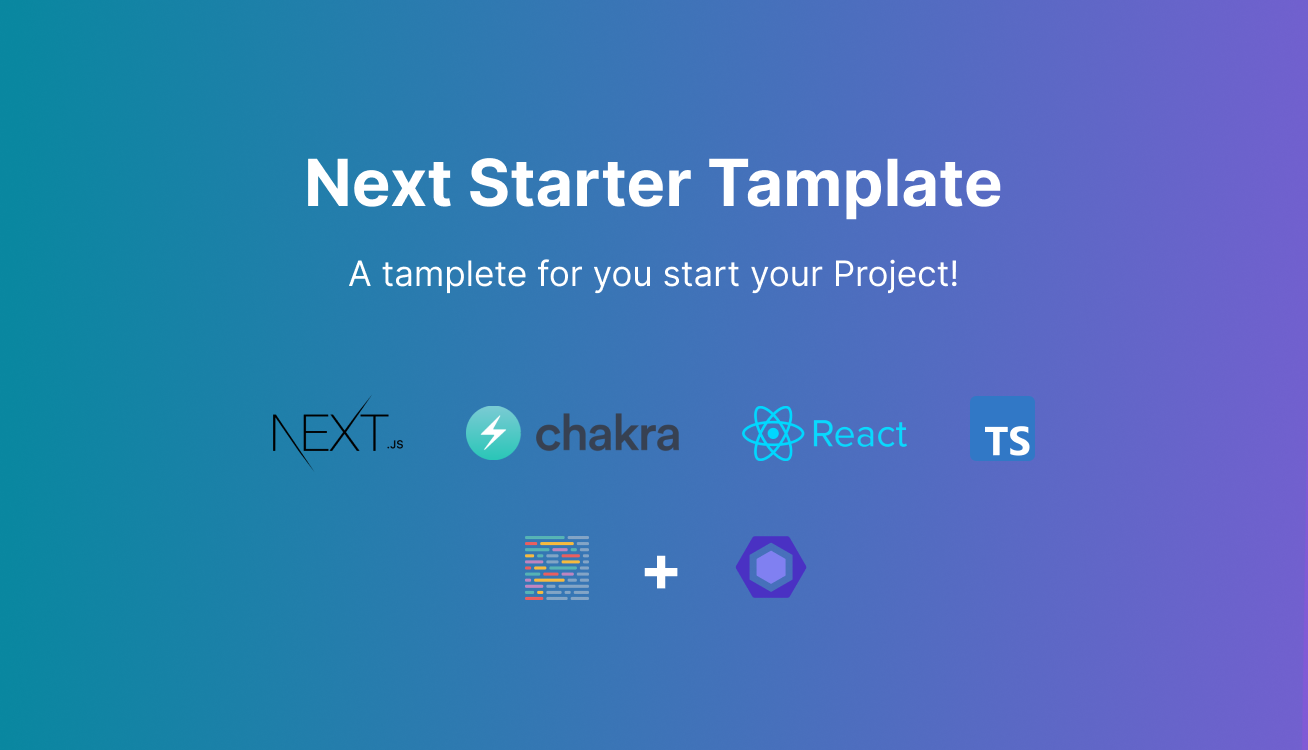
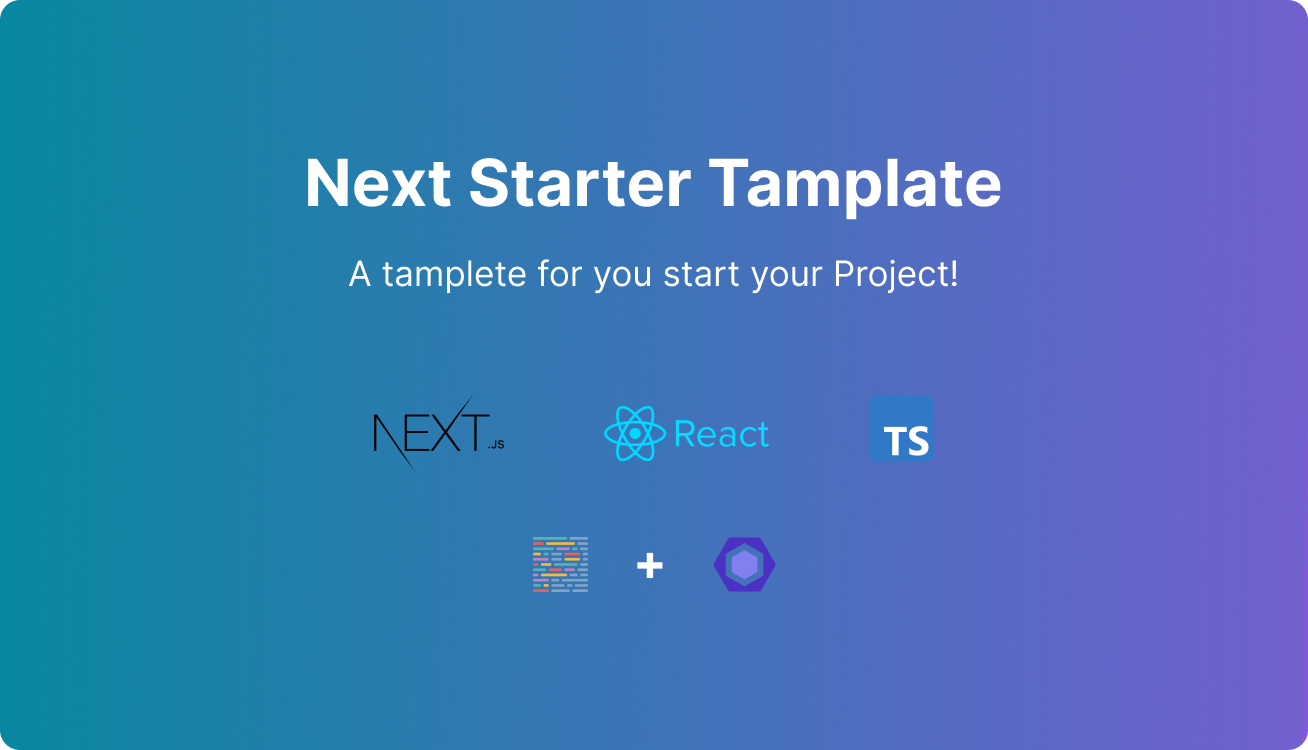
remove chakra

diff --git a/README.md b/README.md
@@ -1,4 +1,4 @@
-# Starter for Next JS 12+, Chakra UI 2+ and TypeScript
+# Starter for Next JS 12+ and TypeScript
 
 <div >
    <a href="#">
@@ -6,10 +6,7 @@
    </a 
    <a href="#">
       <img src="https://img.shields.io/badge/TypeScript-007ACC?style=for-the-badge&logo=typescript&logoColor=white" /> 
-  </a>
-  <a href="#">
-      <img src="https://img.shields.io/badge/chakra-%234ED1C5.svg?style=for-the-badge&logo=chakraui&logoColor=white" />    
-   </a 
+  </a> 
    <a href="#">
       <img src="https://img.shields.io/badge/ESLint-4B3263?style=for-the-badge&logo=eslint&logoColor=white" />    
    </a 
@@ -26,39 +23,36 @@
 </div>
 <br>
 
-🚀 Simple starter for Next JS 12+, Chakra UI 2+ and TypeScript, alias is already configured too!
+🚀 Simple starter for Next JS 12+ and TypeScript, alias is already configured too!
 
 Clone this project and use it to quickly create your own [Next.js](https://nextjs.org) project.
-
 
 ### Features
 
 - ⚡ [Next.js](https://nextjs.org) for Yor awesome prject SSR / SSG
 - 🔥 Types with [TypeScript](https://www.typescriptlang.org)
-- 💎 Integrate with [Chakra UI](https://chakra-ui.com/)
 - 📏 Linter with [ESLint](https://eslint.org) (STANDARD configuration)
 - 🌈 Code Formatter with [Prettier](https://prettier.io)
 - 🗂 Absolute Imports using `@` prefix
-
 
 ### Requirements
 
 - Node.js 14+ and npm
 
-### Files Estructure 
+### Files Estructure
 
 ```shell
 .
-├── public                          # Public assets folder 
+├── public                          # Public assets folder
 ├── src
 │   ├── Components                  # Components folder
 │   ├── pages                       # Next JS Pages
-│   ├── styles                      # Styles folder 
+│   ├── styles                      # Styles folder
 ├── .editorConfig                   # editorConfig configuration
 ├── .eslintrc.json                  # eslintrc configuration
 ├── .prettierrc                     # prettierrc configuration
 └── tsconfig.json                   # TypeScript configuration
-├── README.md                       # README file 
+├── README.md                       # README file
 ```
 
 ### Contributions
